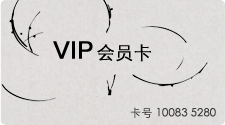
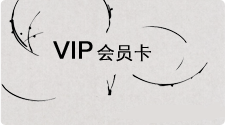
会员卡界面修改 Signed-off-by: ShiinaMinatus <xij1111@gmail.com>

Changed region(s): [[0.56, 0.864, 0.9644, 0.96]]

diff --git a/Controllers/User/userController.class.php b/Controllers/User/userController.class.php
@@ -202,10 +202,6 @@ class mainuserController extends BaseController implements mainuser {
         }
 
         $result = P('user')->getUserRecord($this->userOpenId, $type);
-        
-        var_dump($result);
-        
-        die;
 
         $this->assign('type', $type);
 
@@ -249,7 +245,7 @@ class mainuserController extends BaseController implements mainuser {
         $array = P('user')->userRegistration($this->userOpenId);
 
         $today_time = mktime(0, 0, 0);
-        
+
         if (!empty($array['error'])) {
 
             $error_code = $array['error']['error_status'];
@@ -268,10 +264,10 @@ class mainuserController extends BaseController implements mainuser {
                 $array['res'] = 0;
             }
         }
-        $overplus =5- $array["day"] % 5;
-        $clearDay=$array["day"] % 5;//获取每个周期内的第几天
-        $array["overplus"]=$overplus;
-        $array["clearDay"]=$clearDay;
+        $overplus = 5 - $array["day"] % 5;
+        $clearDay = $array["day"] % 5; //获取每个周期内的第几天
+        $array["overplus"] = $overplus;
+        $array["clearDay"] = $clearDay;
         $this->assign('info', $array);
 
         $this->display('registration');
@@ -286,6 +282,34 @@ class mainuserController extends BaseController implements mainuser {
         P('user')->registrationAction($this->userOpenId);
 
         $this->registration();
+    }
+
+    /**
+     * 会员卡说明
+     */
+    public function userCardStatement() {
+        $result = p('official')->info(8);
+        $cardStatement = $result['official_text'];
+
+        if ($cardStatement == "") {
+            $cardStatement = "<div style='text-align: center;'>暂无介绍</div>";
+        }
+        $this->assign('context', $cardStatement);
+        $this->display();
+    }
+
+    /**
+     * 报手机号就能用卡啦！
+     */
+    public function userCardAndTel() {
+        $result = p('official')->info(10);
+        $cardStatement = $result['official_text'];
+
+        if ($cardStatement == "") {
+            $cardStatement = "<div style='text-align: center;'>暂无介绍</div>";
+        }
+        $this->assign('context', $cardStatement);
+        $this->display();
     }
 
 }

diff --git a/Lib/Yajie/Controllers/User/userController.class.php b/Lib/Yajie/Controllers/User/userController.class.php
@@ -9,13 +9,13 @@ class userController extends mainuserController {
         if (!empty($_REQUEST['open_id'])) {
 
             $this->userOpenId = $_REQUEST['open_id'];
+        } else {
+            $this->userOpenId = 'oIUY-tzD2rRdkycAc5ceQjtI1-ok';
         }
-        
-        $this->userOpenId = 'oIUY-tzD2rRdkycAc5ceQjtI1-ok';
+
 
         $this->assign('open_id', $this->userOpenId);
     }
-
 
     /**
      * 绑定
@@ -56,8 +56,29 @@ class userController extends mainuserController {
         }
     }
 
+    public function userInfo() {
 
-    
+        $userinfo = p('user')->getUserInfo($this->userOpenId);
+        $userinfo = $userinfo["user"];
+        $userCode =  strtoupper($userinfo['user_code']) ;
+        
+        $userPoint = $userinfo['user_integration'];
+        $userMoney = $userinfo['user_money'];
+        $companyInfo = p('company')->get_info();
+        $wifiName = $companyInfo['wifiName'];
+        $wifiPassword = $companyInfo['wifiPassword'];
+        $this->assign('userCode', $userCode);
+        $this->assign('userPoint', $userPoint);
+        $this->assign('userMoney', $userMoney);
+        $this->assign('wifiName', $wifiName);
+        $this->assign('wifiPassword', $wifiPassword);
+//        var_dump($wifiPassword);
+        $this->assign('userinfo', $userInfo["weixin_user"]);
+
+
+
+        $this->display();
+    }
 
 }
 

diff --git a/Interface/Main/mainUserInterface.php b/Interface/Main/mainUserInterface.php
@@ -1,58 +1,50 @@
 <?php
 
-interface mainuser{
+interface mainuser {
 
-	public function index();
+    public function index();
 
-	/**
-	 * 注册页面
-	 */
+    /**
+     * 注册页面
+     */
+    public function register();
 
-	public function register();
+    /**
+     * 注册逻辑
+     */
+    public function submitRegister();
 
-	/**
-	 * 注册逻辑
-	 */
+    /**
+     * 用户中心
+     */
+    public function userCenter();
 
-	public function submitRegister();
+    /**
+     * 用户资料
+     */
+    public function userInfo();
 
-	/**
-	 * 用户中心
-	 */
+    /**
+     * 用户积分
+     */
+    public function userJf();
 
-	public function userCenter();
+    /**
+     * 用户签到页面
+     */
+    public function userlogin();
 
-	/**
-	 * 用户资料
-	 */
+    /**
+     * 用户激活页面
+     */
+    public function ativating();
 
-	public function userInfo();
+    /**
+     *   签到页面
+     */
+    public function registration();
 
-	/**
-	 * 用户积分
-	 */
-
-	public function userJf();
-
-	/**
-	 * 用户签到页面
-	 */
-
-	public function userlogin();
-
-	/**
-	 * 用户激活页面
-	 */
-
-	public function ativating();
-
-	/**
-	 *   签到页面
-	 */
-	public function registration();
-
-
+    public function userCardStatement();
 }
-
 
 ?>

diff --git a/Controllers/Company/companyController.class.php b/Controllers/Company/companyController.class.php
@@ -2,7 +2,6 @@
 
 class maincompanycontroller extends BaseController implements maincompany {
 
-
     public function __construct() {
 
         header("Content-type:text/html;charset=utf-8");
@@ -18,15 +17,23 @@ class maincompanycontroller extends BaseController implements maincompany {
 
         $this->assign('open_id', $this->userOpenId);
     }
-    
-    
-    public function tel(){
-           
-        $this->assign('phone','13524446830');
+
+    public function tel() {
+
+        $this->assign('phone', '13524446830');
         $this->display();
     }
 
-    
+    public function storesAndAddress() {
+        $result = p('official')->info(9);
+        $cardStatement = $result['official_text'];
+
+        if ($cardStatement == "") {
+            $cardStatement = "<div style='text-align: center;'>暂无介绍</div>";
+        }
+        $this->assign('context', $cardStatement);
+        $this->display();
+    }
 
 }
 

diff --git a/Config/bootstrap/defined.php b/Config/bootstrap/defined.php
@@ -57,7 +57,7 @@ ini_set("display_errors",0);
 
 //defined('APIURL') or define('APIURL', 'http://localhost/yajie_weixin_crm/weixin_api');
 
-defined('APIURL') or define('APIURL', 'http://localhost/weixin_api');
+defined('APIURL') or define('APIURL', 'http://112.124.25.155/weixin_api');
 
 defined('VAR_MODULE') or define('VAR_MODULE', 'a');
 

diff --git a/Interface/Main/mainCompanyInterface.php b/Interface/Main/mainCompanyInterface.php
@@ -10,9 +10,9 @@
  *
  * @author zhaixiaoping
  */
-interface maincompany{
-    //put your code here
-    
-    
-    
+interface maincompany {
+
+//put your code here
+
+    public function storesAndAddress();
 }
